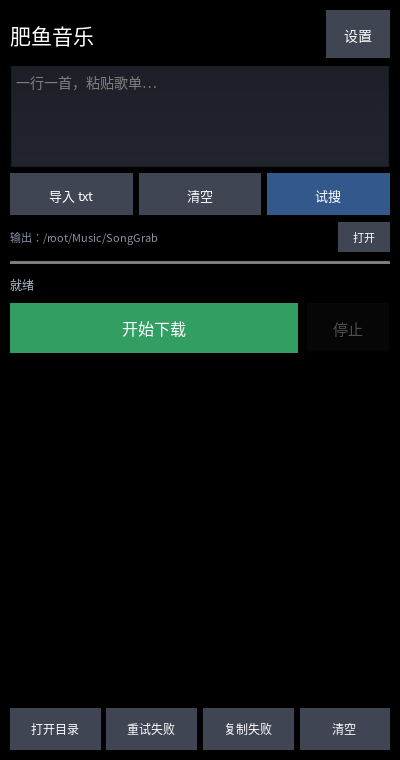
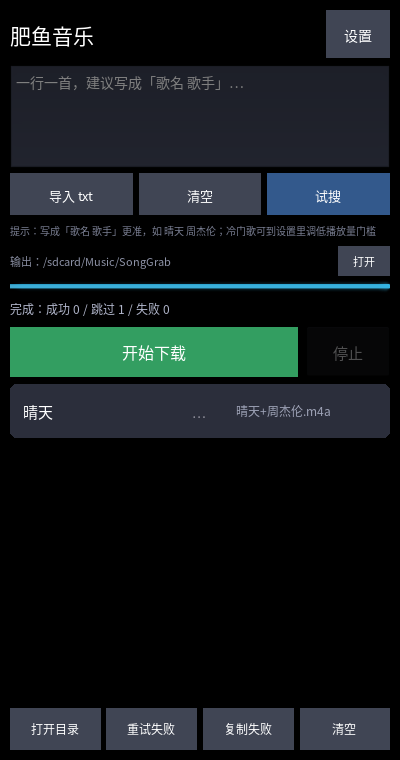
feat: 界面加两处使用提示
- 主界面：提示写成「歌名 歌手」更准，并说明冷门歌可调低播放量门槛
- 输入框占位符同步修改
- 更新文档截图

Changed region(s): [[0.0, 0.2724, 0.99, 0.575], [0.39, 0.0908, 0.54, 0.1211], [0.21, 0.0908, 0.36, 0.1211]]

diff --git a/src/songgrab_core.py b/src/songgrab_core.py
@@ -667,8 +667,25 @@ def _dump_cookiefile(path: Path) -> bool:
         return False
 
 
+class _QuietLogger:
+    """yt-dlp 的 logger：全部吞掉，避免它去碰 sys.stderr。"""
+
+    def debug(self, msg):
+        pass
+
+    def info(self, msg):
+        pass
+
+    def warning(self, msg):
+        pass
+
+    def error(self, msg):
+        pass
+
+
 def download_audio(bvid: str, workdir: Path, use_cookies: bool = False) -> Path:
     """用 yt-dlp 只下音频，返回落盘文件路径。"""
+    import io
     import yt_dlp  # 延迟导入，便于单测不依赖
 
     workdir.mkdir(parents=True, exist_ok=True)
@@ -682,6 +699,11 @@ def download_audio(bvid: str, workdir: Path, use_cookies: bool = False) -> Path:
         "no_warnings": True,
         "retries": 3,
         "socket_timeout": 30,
+        # p4a 环境里 sys.stdout/stderr 不是正常文件对象，yt-dlp 写日志会抛
+        # 'str' object has no attribute 'write'，这里彻底切断它的输出通道
+        "logger": _QuietLogger(),
+        "noprogress": True,
+        "no_color": True,
     }
     # 有用户 cookie 就优先用（登录态能解锁高音质）；否则用会话 buvid3
     _load_user_cookies()
@@ -694,8 +716,14 @@ def download_audio(bvid: str, workdir: Path, use_cookies: bool = False) -> Path:
         opts["cookiefile"] = str(cf)
 
     url = f"https://www.bilibili.com/video/{bvid}"
-    with yt_dlp.YoutubeDL(opts) as ydl:
-        ydl.extract_info(url, download=True)
+    _old_out, _old_err = sys.stdout, sys.stderr
+    sys.stdout = io.StringIO()
+    sys.stderr = io.StringIO()
+    try:
+        with yt_dlp.YoutubeDL(opts) as ydl:
+            ydl.extract_info(url, download=True)
+    finally:
+        sys.stdout, sys.stderr = _old_out, _old_err
 
     fresh = [
         p for p in workdir.iterdir()
@@ -865,6 +893,49 @@ def parse_song_entry(text: str) -> tuple[str, str]:
     return t, ""
 
 
+_FAKE_ARTIST = re.compile(
+    r"^(我想|这是|那个|这个|我们|你们|他们|什么|怎么|就是|如果|因为|所以|但是|"
+    r"一个|一首|今天|昨天|明天|大家|自己|真的|还是|已经|可以|没有|知道|觉得)$"
+)
+
+
+def artist_from_title(title: str, song: str) -> str:
+    """从 B 站标题里抠歌手，常见格式：
+    「歌手《歌名》」/「歌手 - 歌名」/「《歌名》- 歌手」
+    """
+    if not title or not song:
+        return ""
+    esc = re.escape(song)
+    keep = r"[^\s【】\[\]（）()《》/|,，。！!…~\-—–]{2,16}"
+
+    m = re.search(r"(" + keep + r")\s*《\s*" + esc, title)
+    if not m:
+        m = re.search(r"(" + keep + r")\s*[-—–]\s*" + esc, title)
+    if not m:
+        m = re.search("《" + esc + r"》\s*[-—–]\s*(" + keep + ")", title)
+    if not m:
+        return ""
+    cand = m.group(1).strip(" 【】[]()（）-—_")
+    cand = re.sub(r"^(4K|8K|HD|高清|修复|完整版)", "", cand, flags=re.I).strip()
+    if len(cand) < 2 or len(cand) > 16 or _FAKE_ARTIST.match(cand):
+        return ""
+    return cand
+
+
+def resolve_artist(song: str, card_title: str, net_artist: str) -> str:
+    """标题与网易云交叉验证。
+
+    网易云缺版权时会返回翻唱者（如「晴天」→ Lucky小爱），
+    而 B 站标题通常写着原唱（周杰伦《晴天》），对不上时信标题。
+    """
+    t = artist_from_title(card_title, song)
+    if t and net_artist:
+        if net_artist.lower() in (card_title or "").lower():
+            return net_artist        # 标题印证了网易云
+        return t                     # 不一致，以视频标题为准
+    return t or net_artist or ""
+
+
 def lookup_artist(song: str) -> tuple[str, str]:
     """联网查曲师（网易云搜索）。返回 (曲师, 来源)；查不到返回 ("", "")。"""
     try:
@@ -919,13 +990,13 @@ def process_song(
     out_dir = resolve_output_dir(cfg)
     artists = load_artists()
 
-    artist = (artist_hint or "").strip() or artists.get(song, "").strip()
+    artist = (artist_hint or "").strip()
+    net_artist = ""
     if not artist:
         say("artist", f"联网查曲师「{song}」…")
-        artist, source = lookup_artist(song)
-        if artist:
-            save_artist(song, artist)
-            say("artist", f"查到曲师：{artist}（{source}）")
+        net_artist, source = lookup_artist(song)
+        if net_artist:
+            say("artist", f"网易云：{net_artist}（{source}）")
 
     # 已有成品：曲师变了就顺手改名，避免补表后留下旧名字
     existing = find_existing(out_dir, song)
@@ -954,6 +1025,21 @@ def process_song(
         min_dur=int(cfg.get("min_dur", 90)),
         priority_words=cfg.get("priority_words", DEFAULT_PRIORITY),
     )
+    if not pick.card and search_kw != song:
+        # 带歌手的结果可能太窄（播放量低/没收录），回退到纯歌名再挑一次
+        say("search", f"回退搜索「{song}」")
+        try:
+            cards2 = search_both(song)
+            pick2 = pick_card(
+                cards2, song,
+                min_play=int(cfg.get("min_play", 10000)),
+                min_dur=int(cfg.get("min_dur", 90)),
+                priority_words=cfg.get("priority_words", DEFAULT_PRIORITY),
+            )
+            if pick2.card:
+                pick = pick2
+        except Exception:
+            pass
     if not pick.card:
         return SongResult(song, "fail", pick.reason)
 
@@ -961,6 +1047,14 @@ def process_song(
     say("pick", f"选中 {card.play} 播放 · {card.title[:30]}")
 
     pending = False
+    if not artist:
+        artist = resolve_artist(song, card.title, net_artist)
+        if artist:
+            if net_artist and artist != net_artist:
+                say("artist", f"标题与网易云不符，采用标题歌手：{artist}")
+            else:
+                say("artist", f"曲师：{artist}")
+            save_artist(song, artist)
     if not artist:
         artist = card.author.strip() or "未知"
         pending = True
@@ -993,7 +1087,15 @@ def process_song(
             reason = f"{pick.reason}；曲师未查到，暂用 UP 主名"
         return SongResult(song, "ok", reason, fname, card.bvid, artist=artist, pending=pending)
     except Exception as e:
-        return SongResult(song, "fail", f"下载/转换失败：{e}", bvid=card.bvid)
+        import traceback
+        tb = traceback.format_exc()
+        try:
+            Path("/sdcard/dsh/sg-error.log").open("a", encoding="utf-8").write(
+                f"\n===== {song} @ {time.strftime('%H:%M:%S')} =====\n{tb}\n")
+        except Exception:
+            pass
+        return SongResult(song, "fail",
+                          f"下载/转换失败：{type(e).__name__}: {e}", bvid=card.bvid)
     finally:
         if raw is not None:
             try:
